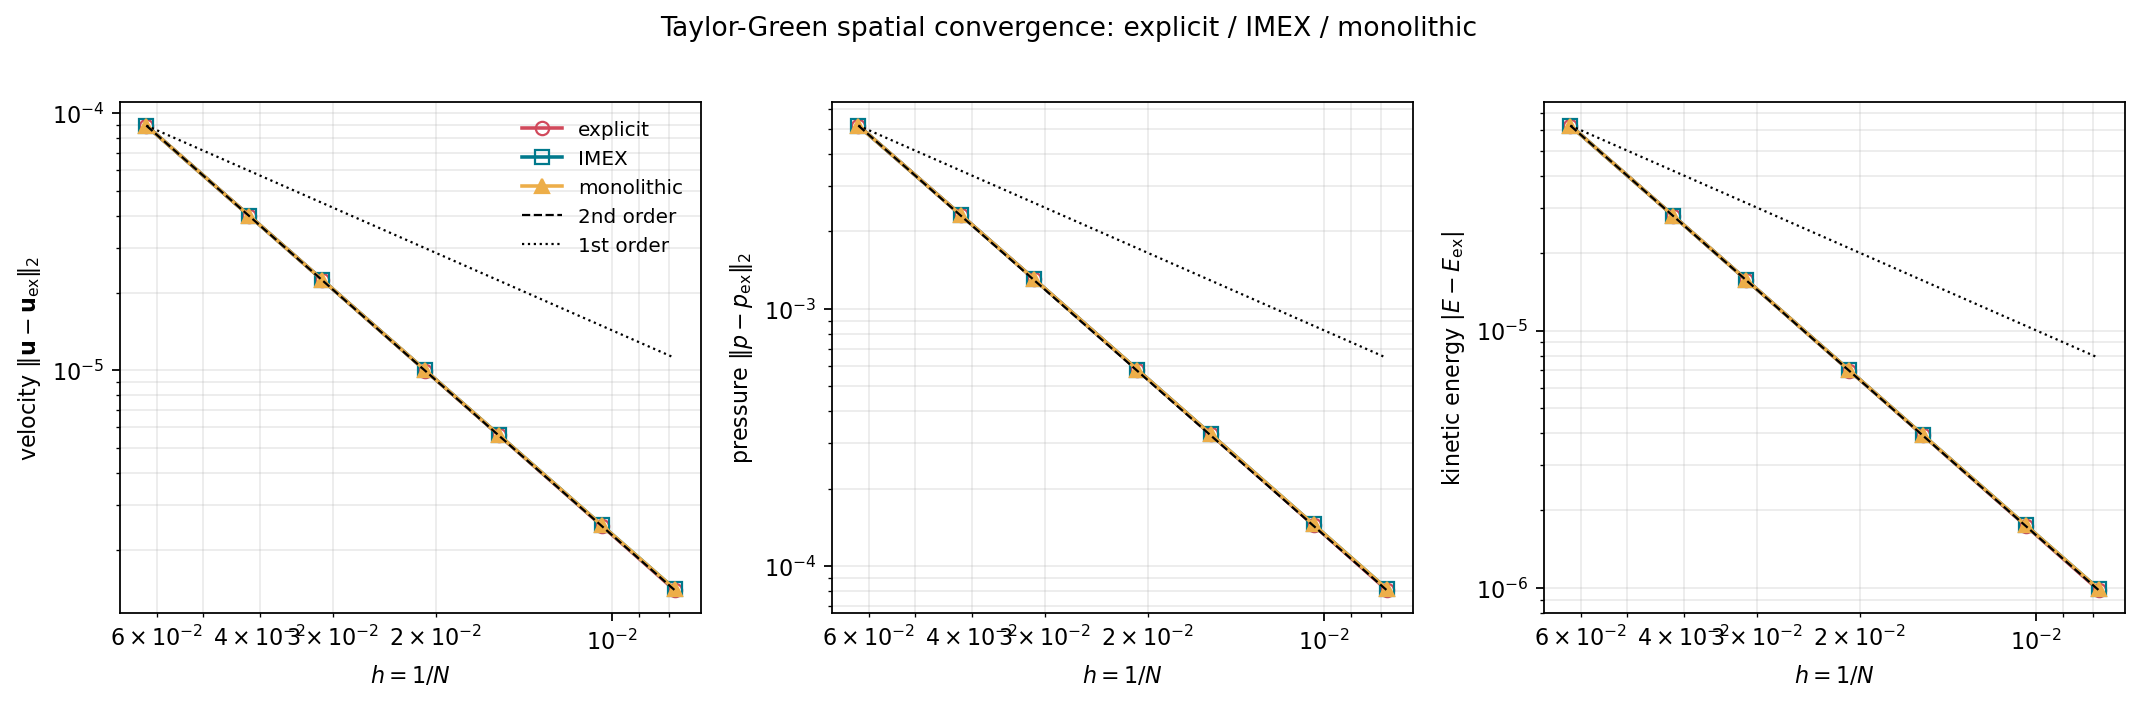
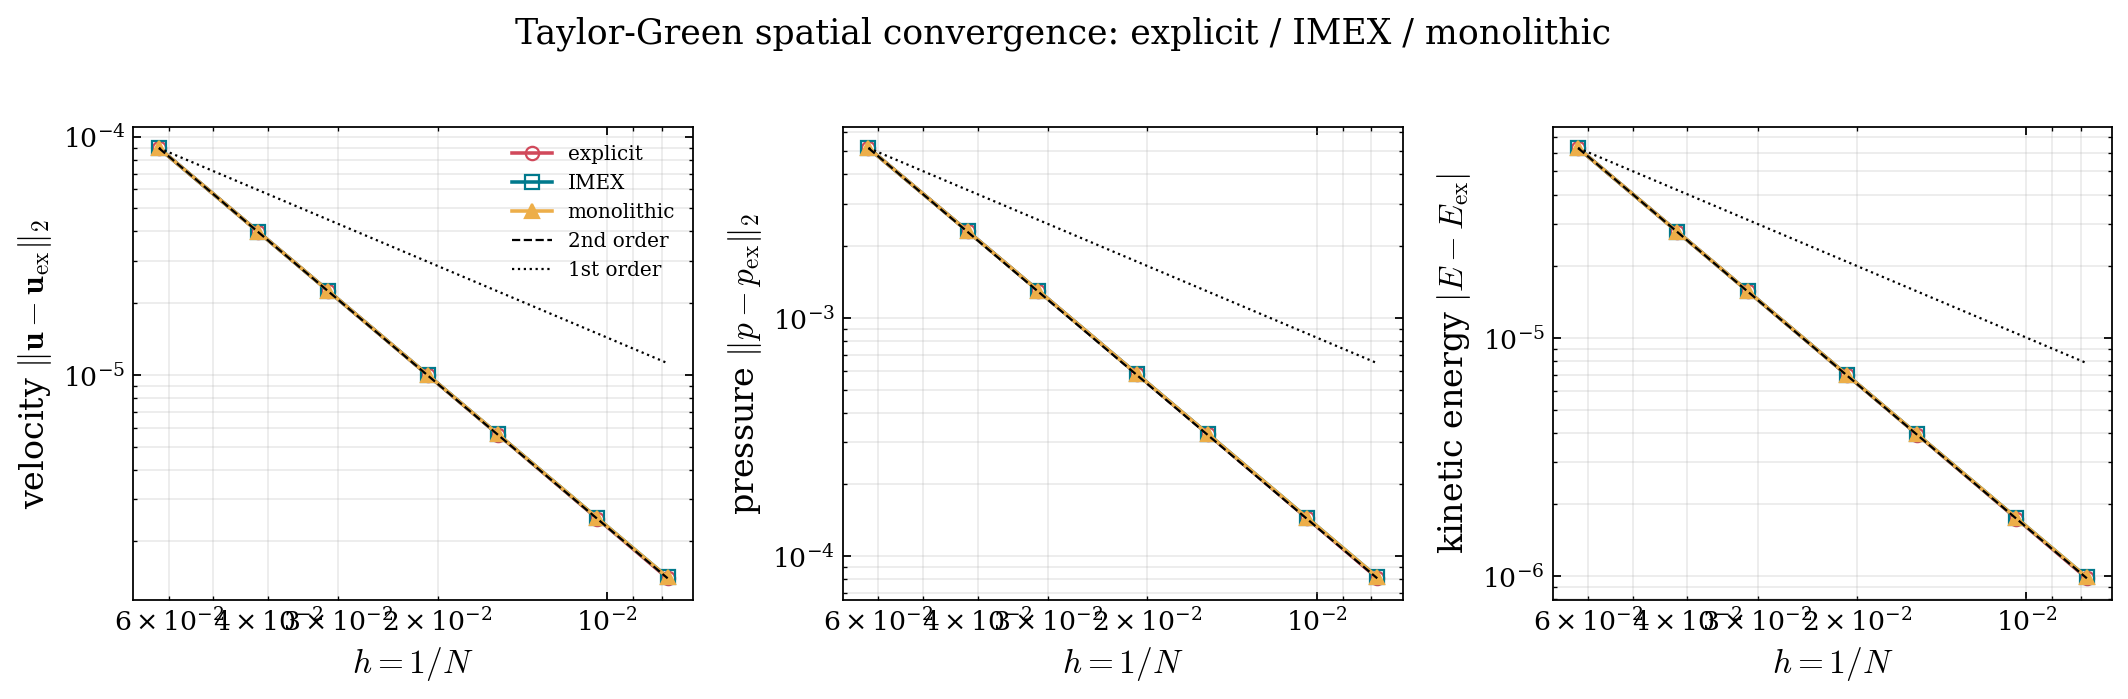
paper (item 6): RMT schematic (inline TikZ) + refreshed convergence figure fonts
- replace the fig:rmt-schematic placeholder with an inline TikZ schematic (reference config
  with labels X -> motion chi / reference map xi=chi^-1 -> current config on the fixed MAC
  grid; F=(grad xi)^-1; solid phi<=0 / fluid phi>0)
- tg_convergence figure regenerated with the publication plot style (serif/CM fonts)
- 24 pages

diff --git a/paper/sections/rmt.tex b/paper/sections/rmt.tex
@@ -18,11 +18,39 @@ frame from the spatial gradient of the reference map,
 \label{eq:F}
 \end{equation}
 
-\phfig{fig:rmt-schematic}{Reference map technique. \TODO{schematic: (left) material body
-with label field $\Xv$ in the reference configuration; (centre) the motion $\bm\chi$ and
-its inverse, the reference map $\xiv=\bm\chi^{-1}$, on the fixed Eulerian grid; (right)
-$\Ften=(\grad\xiv)^{-1}$ and the solid/fluid blend across the smoothed interface $\phi$.
-Draw as inline TikZ or a vector figure.}}
+\begin{figure}[t]\centering
+\begin{tikzpicture}[>=Latex,scale=1.0]
+  % --- reference configuration ---
+  \begin{scope}[shift={(0,0)}]
+    \node at (0,2.15) {\small reference config.};
+    \draw[rounded corners,fill=blue!4] (-1.5,-1.5) rectangle (1.5,1.5);
+    \draw[fill=blue!18,draw=blue!55,thick] (0,0) circle (0.9);
+    \foreach \a in {0,45,...,315}{\fill[blue!55] (\a:0.55) circle (0.5pt);}
+    \node at (0.35,0.35) {\scriptsize $\Xv$};
+    \node at (0,-1.85) {\small solid $\Omega_s^{0}$};
+  \end{scope}
+  % --- current configuration on the fixed Eulerian grid ---
+  \begin{scope}[shift={(6.4,0)}]
+    \node at (0,2.15) {\small current config. (fixed MAC grid)};
+    \draw[step=0.375,gray!35,very thin] (-1.5,-1.5) grid (1.5,1.5);
+    \draw[rounded corners] (-1.5,-1.5) rectangle (1.5,1.5);
+    \draw[fill=blue!18,draw=blue!55,thick,rotate=25] (0,0) ellipse (1.15 and 0.62);
+    \fill (0.5,0.28) circle (1.1pt) node[above right]{\scriptsize $\xv$};
+    \node at (0,-1.85) {\small solid $\phi\le0$ \; / \; fluid $\phi>0$};
+  \end{scope}
+  % --- maps ---
+  \draw[->,thick] (1.7,0.7) to[bend left=20] node[above]{\small motion $\bm\chi$} (4.7,0.7);
+  \draw[->,thick] (4.7,-0.7) to[bend left=20] node[below]{\small $\xiv=\bm\chi^{-1}$} (1.7,-0.7);
+  \node[align=center] at (3.2,0.0) {\scriptsize $\xiv(\xv,t)=\Xv$\\[2pt]$\Ften=(\grad\xiv)^{-1}$};
+\end{tikzpicture}
+\caption{The reference map technique. The material body carries labels $\Xv$ (reference
+configuration, left). On the fixed staggered (MAC) grid (right) each cell stores the
+reference map $\xiv(\xv,t)=\bm\chi^{-1}(\xv,t)$---the label of the material currently at
+$\xv$---which is advected passively; the deformation gradient $\Ften=(\grad\xiv)^{-1}$ and
+hence the solid stress follow from it, and the level set $\phi$ (solid where $\phi\le0$) is
+reconstructed from $\xiv$.}
+\label{fig:rmt-schematic}
+\end{figure}
 and the left Cauchy--Green (Finger) tensor is $\bt=\Ften\Ften^{\!\top}$. For an
 incompressible motion $J\equiv1$; the discrete $J$ is monitored as a folding/quality
 diagnostic.

diff --git a/paper/main.tex b/paper/main.tex
@@ -14,6 +14,8 @@
 \usepackage{xcolor}
 \usepackage{algorithm}
 \usepackage{algpseudocode}
+\usepackage{tikz}
+\usetikzlibrary{arrows.meta,decorations.pathmorphing}
 
 \newtheorem{proposition}{Proposition}
 \theoremstyle{remark}
